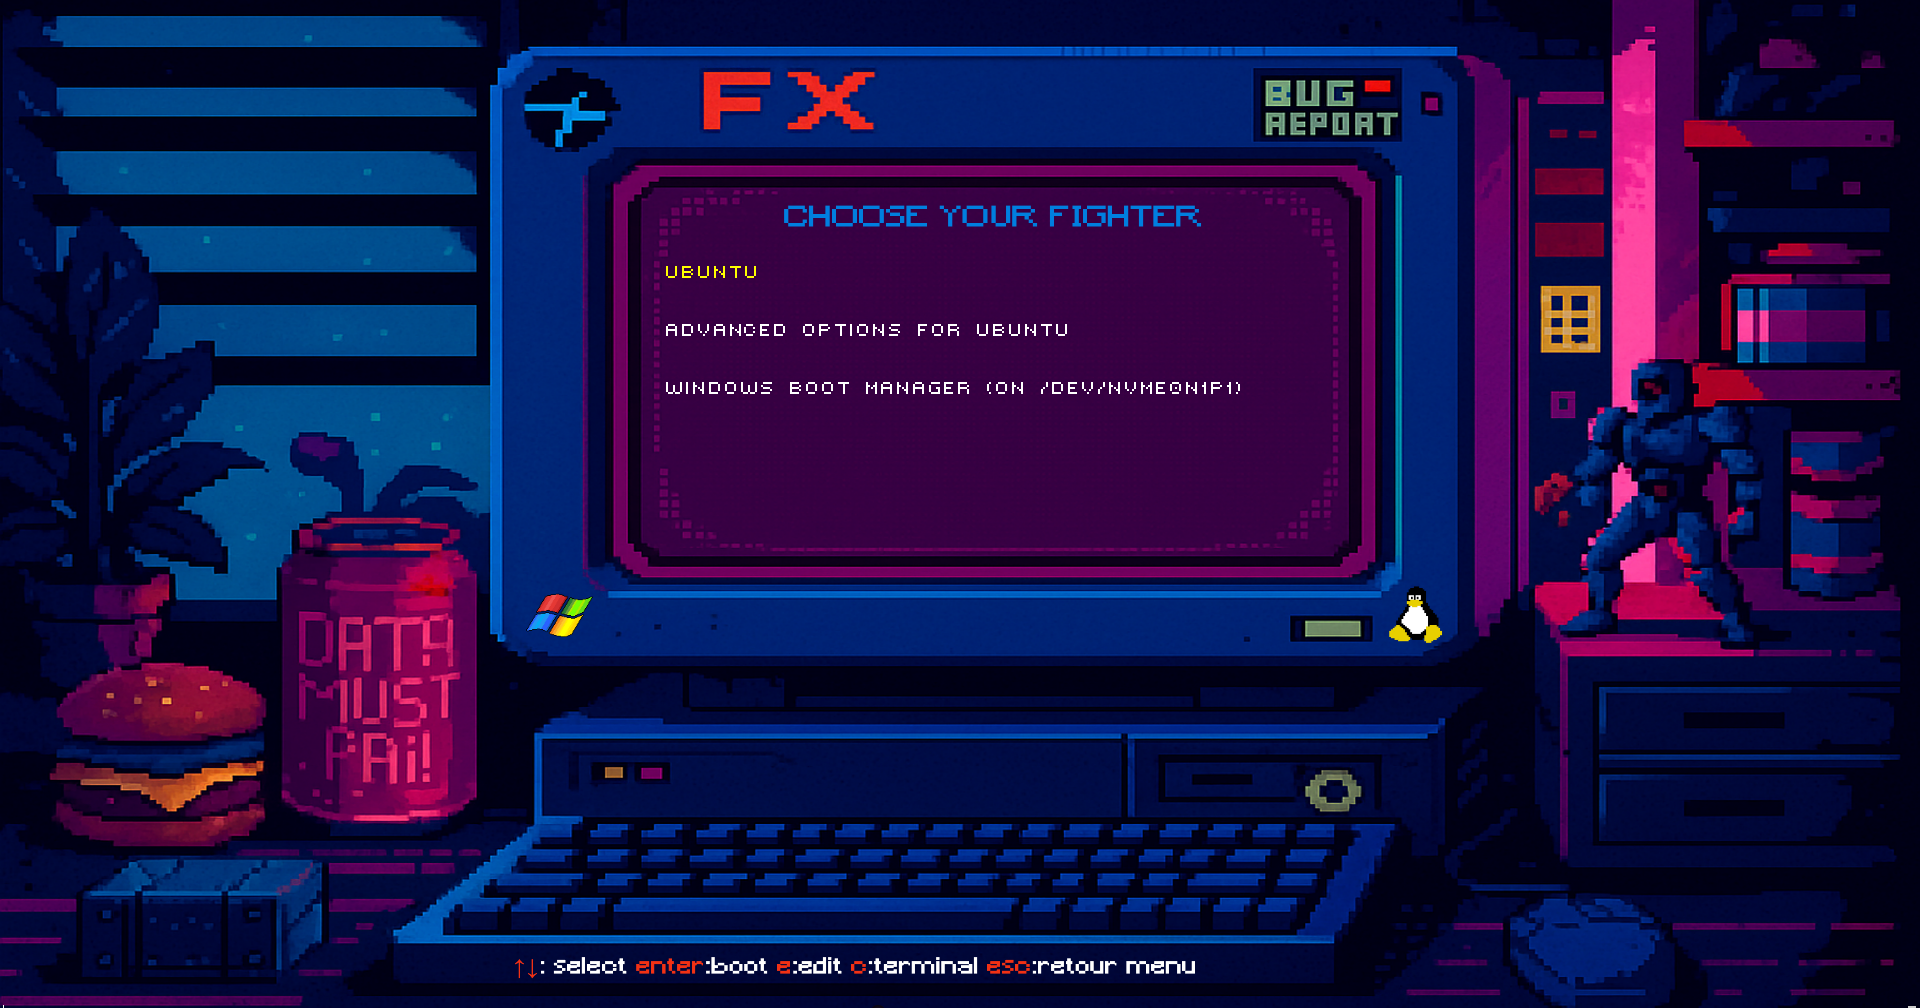
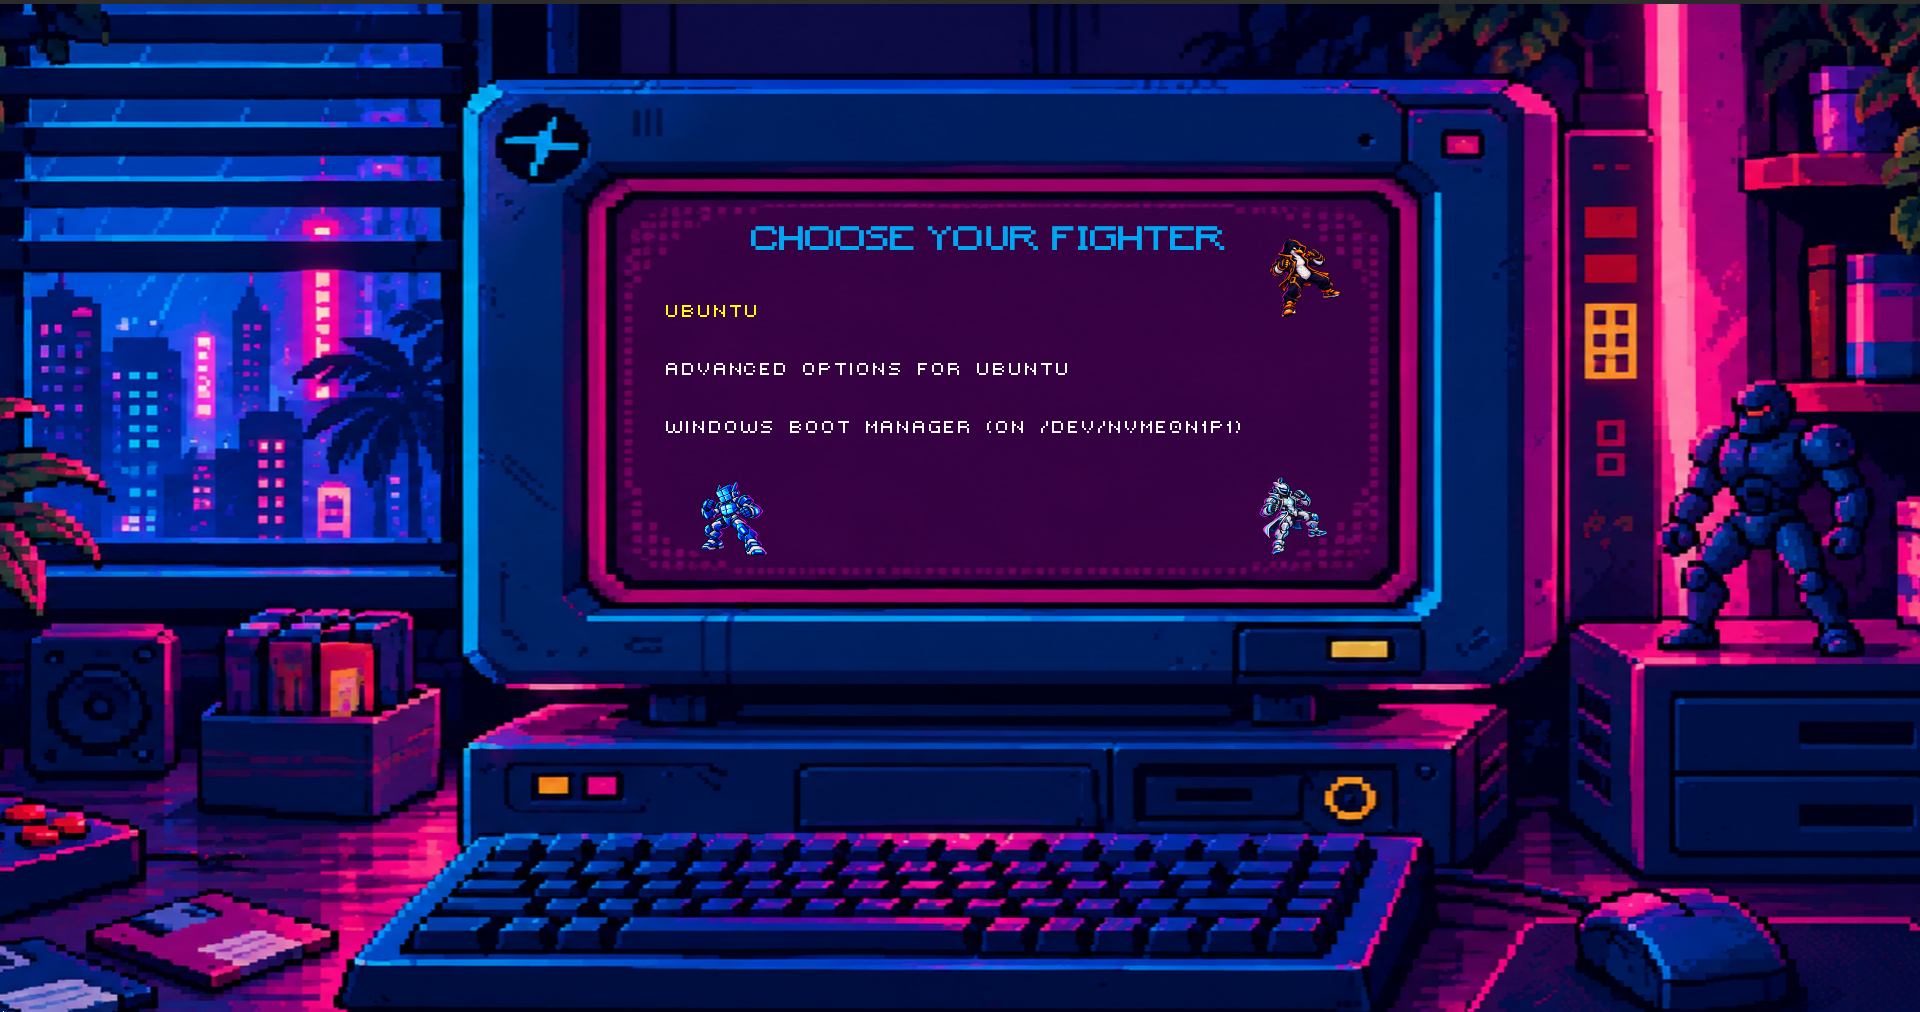
feat: new backgrounds fix: text positioning docs: update README

diff --git a/README.md b/README.md
@@ -25,15 +25,16 @@ Inspired by 80’s CRT vibes and terminal aesthetics.
 
 ---
 
-## ✨ Features
+## Features
 - Pixel-art background with neon accents  
 - Crisp custom PF2 font (`Victor’s Pixel Font Regular 24`)  
 - Centered menu with yellow selection highlight  
-- Lightweight and fully GPL-compatible  
+- Lightweight and fully GPL-compatible
+- custom dualboot background with Tekken inspired "OS-Fighters"
 
 ---
 
-## 📦 Installation
+## Installation
 
 ```bash
 git clone https://github.com/simontrost/RetroPunk.git
